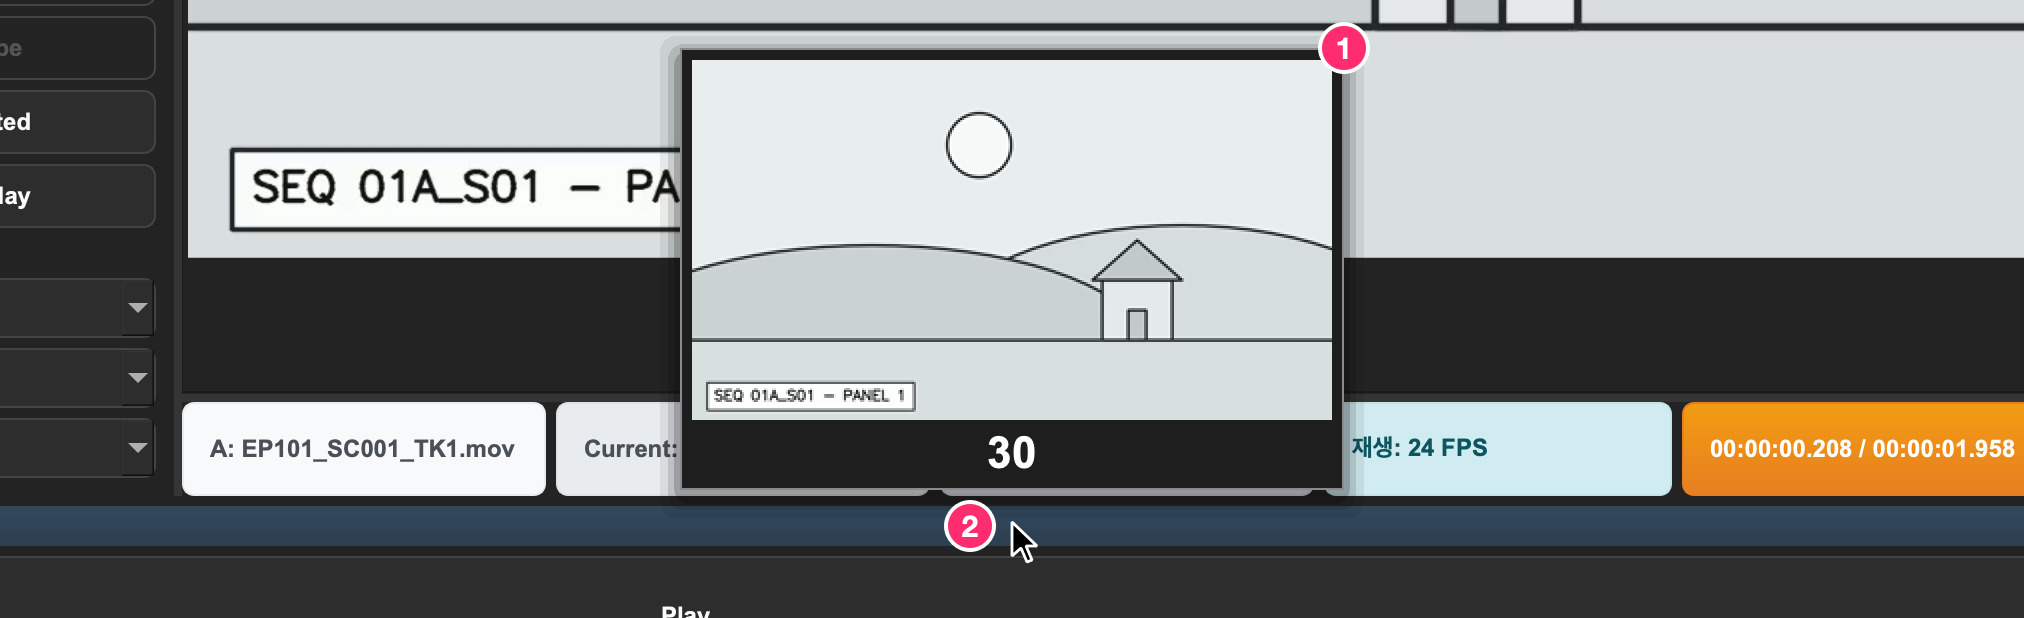
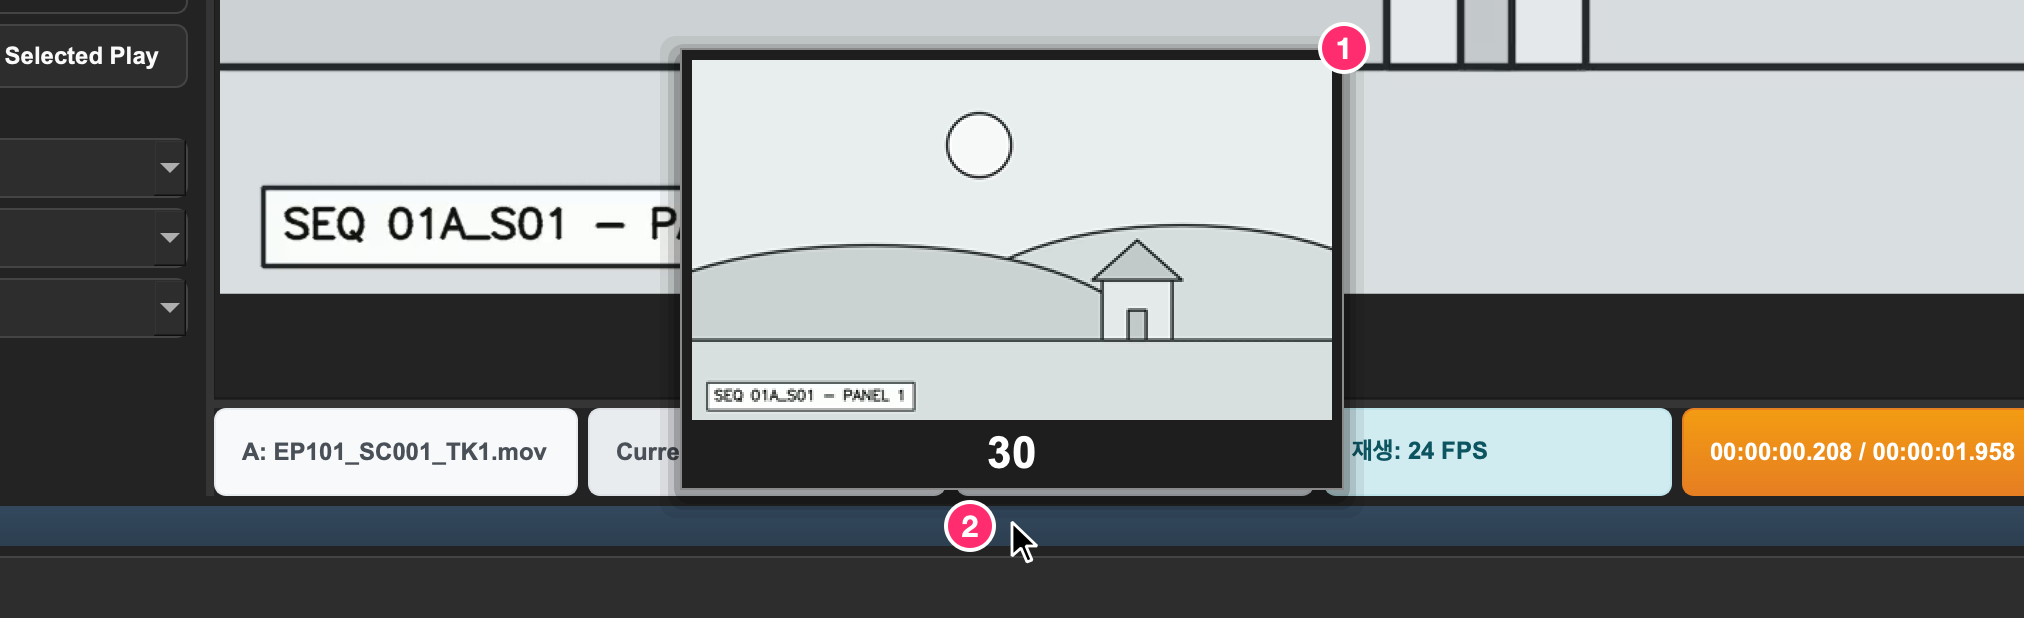
가운데 열: 단추 여섯을 둘씩 한 줄로 — 세로 111px 여유
사용자 요청: 가운데 열의 Open Video A·B, X·Y-Axis Wipe, Play Selected·Selected Play를 반 폭씩 한 줄로
놓아 세로 자리를 만들기 (OCR 관련 상자를 펼치면 아래 항목이 밀려 보기 어려움).
결정: 여섯 단추만, 글자는 그대로 두고 가운데 열을 그만큼 넓힘.

- window_layout.button_pair_row: 단추 둘을 한 줄에 반씩
- window_layout.SteadyTextButton: 글자가 바뀌는 단추의 크기 힌트를 가장 넓은 글자에 고정 —
  선택 재생 단추의 글자(Selected Play ↔ Selected Pause)가 바뀔 때 열·영상 영역의 폭이 흔들리지 않게
- 선택 재생 단추의 처음 글자 'Play/Pause Selected' → 'Selected Play' (긴 글은 반 폭에 안 들어감)
- 가운데 열 폭은 정해 넣지 않음: 스크롤 영역의 최소 폭(내용 + 스크롤바 자리)이 늘어 이 Mac에서 220 → 236px,
  영상 영역 가로 16px 줄어듦. 창의 최소 크기는 613×504로 900×600 아래 그대로
- 실제 스크롤 양(이 Mac, 상자 하나를 펼쳤을 때): 창 높이 900에서 62·99·76·38px → 모두 0,
  800에서 162·199·176·138px → 51·88·65·27px
- 매뉴얼: 화면 그림 17장을 다시 찍음, '그 아래 단추' → '그 옆 단추'
- 시험 tests/test_middle_button_rows.py 10개 (같은 줄·반씩·글자가 다 들어감·폭이 흔들리지 않음)

diff --git a/tests/test_middle_button_rows.py b/tests/test_middle_button_rows.py
@@ -1,0 +1,161 @@
+"""가운데 열의 단추 여섯을 둘씩 한 줄로 (2026-11-13).
+
+사용자 요청: "빨간 사각형 안의 버튼 가로 사이즈만 50%씩 줄여서 한 줄로 만들면 중앙패널에 여유가 생길 거 같아 …
+OCR 관련 버튼 펼치면 나머지 버튼 내부 항목이 보기 어려워서".
+Open Video A | Open Video B · X-Axis Wipe | Y-Axis Wipe · Play Selected | Selected Play — 세 줄이 줄어 가운데 열에
+세로 여유가 생긴다(개발 Mac에서 111px). 사용자 결정: 글자는 그대로 두고, 글자가 잘리지 않도록 가운데 열이 그만큼
+넓어진다(개발 Mac 220 → 236px).
+
+글꼴은 플랫폼마다 달라 픽셀 숫자가 아니라 관계(같은 줄·같은 폭·글자가 다 들어감·폭이 흔들리지 않음)로 확인한다.
+"""
+
+import pytest
+from PyQt5.QtWidgets import QApplication, QPushButton
+
+from yesoncheck.player_timeline import CollapsibleBox
+from tests.test_work_paths_ui import make_config, new_player  # noqa: F401 (new_player: fixture)
+
+PAIRS = [("Open Video A", "Open Video B"), ("X-Axis Wipe", "Y-Axis Wipe"), ("Play Selected", "Selected Play")]
+PAUSE_STYLE = "background-color: yellow;"  # 선택 재생 중 단추의 시트 (player_playback·sidebar_playlist가 넣는 것)
+
+
+def settle():
+    for _ in range(5):
+        QApplication.processEvents()
+
+
+@pytest.fixture
+def player(new_player, dialogs, tmp_path):  # noqa: F811
+    player = new_player(make_config(str(tmp_path), {}))
+    player.resize(1440, 900)
+    player.show()
+    settle()
+    return player
+
+
+def column(player):
+    return player.middleScrollArea.widget()
+
+
+def button(player, text):
+    found = [b for b in column(player).findChildren(QPushButton) if b.text() == text]
+    assert len(found) == 1, f"'{text}' 단추가 {len(found)}개"
+    return found[0]
+
+
+def pairs(player):
+    return [(button(player, left), button(player, right)) for left, right in PAIRS]
+
+
+def left_edge(widget, player):
+    return widget.mapTo(column(player), widget.rect().topLeft())
+
+
+def show_pause_label(player):
+    """선택 재생 중의 모습: 글자 'Selected Pause' + 노란 시트 (앱이 재생을 시작할 때 하는 그대로)."""
+    player.playSelectedPauseButton.setText("Selected Pause")
+    player.playSelectedPauseButton.setStyleSheet(PAUSE_STYLE)
+    settle()
+
+
+def test_pause_button_starts_with_the_short_label(player):
+    """처음 글자도 한 번 쓴 뒤의 글자와 같은 'Selected Play' — 예전 처음 글자 'Play/Pause Selected'는 반 폭에 들어가지 않음."""
+    assert player.playSelectedPauseButton.text() == "Selected Play"
+
+
+def test_each_pair_sits_on_one_row(player):
+    for left, right in pairs(player):
+        a, b = left_edge(left, player), left_edge(right, player)
+        assert a.y() == b.y(), f"{left.text()} · {right.text()}가 다른 줄"
+        assert left.height() == right.height()
+        gap = b.x() - (a.x() + left.width())
+        assert 0 <= gap <= 8, f"{left.text()} · {right.text()} 사이 {gap}px"
+
+
+def test_pair_buttons_share_the_row_equally(player):
+    for left, right in pairs(player):
+        assert abs(left.width() - right.width()) <= 1, f"{left.text()} {left.width()} · {right.text()} {right.width()}"
+
+
+def test_rows_span_the_same_width_as_the_other_controls(player):
+    """둘을 합친 줄은 한 줄짜리 위젯(콤보 상자)과 왼쪽·오른쪽 끝이 같음."""
+    combo = player.frameRateComboBox
+    start = left_edge(combo, player).x()
+    end = start + combo.width()
+    for left, right in pairs(player):
+        assert left_edge(left, player).x() == start
+        assert abs(left_edge(right, player).x() + right.width() - end) <= 1
+
+
+def test_rows_follow_each_other_without_a_gap_row(player):
+    """Open Video 줄 바로 아래가 첫 접는 상자 (B가 차지하던 줄이 없어짐)."""
+    open_a = button(player, "Open Video A")
+    first_box = column(player).findChildren(CollapsibleBox)[0]
+    below = left_edge(first_box, player).y() - (left_edge(open_a, player).y() + open_a.height())
+    assert 0 <= below <= 8
+
+
+def test_every_label_fits(player):
+    for left, right in pairs(player):
+        for b in (left, right):
+            assert b.width() >= b.minimumSizeHint().width(), f"{b.text()}: 폭 {b.width()} < 필요한 {b.minimumSizeHint().width()}"
+    show_pause_label(player)
+    pause = player.playSelectedPauseButton
+    assert pause.width() >= pause.minimumSizeHint().width()
+
+
+def test_every_label_fits_when_the_scrollbar_shows(player):
+    """접는 상자를 펼쳐 세로 스크롤바가 생겨도(가운데 열의 내용 폭이 스크롤바만큼 줄어듦) 글자가 잘리지 않음."""
+    player.resize(1440, 700)
+    settle()
+    annotation_box = column(player).findChildren(CollapsibleBox)[-1]
+    annotation_box.toggle_button.click()
+    settle()
+    assert player.middleScrollArea.verticalScrollBar().isVisible(), "스크롤바가 생기지 않음 (시험 조건이 틀림)"
+    rows = pairs(player)  # 글자를 바꾸기 전에 찾아 둠 (글자로 찾으므로)
+    show_pause_label(player)
+    for left, right in rows:
+        for b in (left, right):
+            assert b.width() >= b.minimumSizeHint().width(), f"{b.text()}: 폭 {b.width()} < 필요한 {b.minimumSizeHint().width()}"
+        assert left_edge(right, player).x() + right.width() <= column(player).width()
+
+
+def test_column_width_does_not_move_when_the_pause_label_changes(player):
+    """재생·멈춤마다 글자가 Selected Play ↔ Selected Pause로 바뀌어도 가운데 열과 단추의 폭이 그대로 (영상 영역이 흔들리지 않음)."""
+    pause = player.playSelectedPauseButton
+    play = button(player, "Play Selected")
+    before = (player.middleScrollArea.width(), pause.width(), play.width(), player.videoWidget.width())
+    show_pause_label(player)
+    during = (player.middleScrollArea.width(), pause.width(), play.width(), player.videoWidget.width())
+    pause.setText("Selected Play")
+    pause.setStyleSheet("")
+    settle()
+    after = (player.middleScrollArea.width(), pause.width(), play.width(), player.videoWidget.width())
+    assert before == during == after
+
+
+def test_pause_button_asks_for_the_same_width_in_both_states(player):
+    """크기 힌트·최소 힌트가 두 글자에서 같고, 넓은 글자('Selected Pause')를 보통 단추에 넣었을 때의 폭과 같음."""
+    pause = player.playSelectedPauseButton
+    idle = (pause.sizeHint().width(), pause.minimumSizeHint().width())
+    plain_idle = QPushButton.sizeHint(pause).width()
+    show_pause_label(player)
+    playing = (pause.sizeHint().width(), pause.minimumSizeHint().width())
+    plain_playing = QPushButton.sizeHint(pause).width()  # 보통 QPushButton이 이 글자에 바라는 폭
+    assert idle == playing == (plain_playing, plain_playing)
+    assert plain_idle < plain_playing  # 짧은 글자만 보면 더 좁았을 것 — 넓은 쪽에 맞춘 것
+
+
+def test_buttons_still_do_their_jobs(player, monkeypatch):
+    """자리만 바뀌고 누르면 하는 일은 그대로."""
+    opened = []
+    monkeypatch.setattr(player, "open_file", lambda side, path=None: opened.append(side))
+    button(player, "Open Video A").click()
+    button(player, "Open Video B").click()
+    assert opened == ["A", "B"]
+    # 선택 재생 단추 둘은 만들 때의 메서드에 바로 이어져 있어 바꿔치기가 닿지 않음 — 이어져 있는지만 봄
+    play = button(player, "Play Selected")
+    pause = player.playSelectedPauseButton
+    assert play.receivers(play.clicked) >= 1
+    assert pause.receivers(pause.clicked) >= 1
+    assert not button(player, "X-Axis Wipe").isEnabled() and not button(player, "Y-Axis Wipe").isEnabled()  # 와이프를 켜기 전에는 꺼진 채

diff --git a/yesoncheck/player_base.py b/yesoncheck/player_base.py
@@ -73,7 +73,9 @@ from yesoncheck.player_ocr import PlayerOcrMixin
 from yesoncheck.player_overlay import PlayerOverlayMixin
 from yesoncheck.slider_style import jump_to_click
 from yesoncheck.update_banner import UpdateBanner
-from yesoncheck.window_layout import ElidedLabel, InfoRowLayout, VerticalScrollArea, startup_geometry
+from yesoncheck.window_layout import (
+    ElidedLabel, InfoRowLayout, SteadyTextButton, VerticalScrollArea, button_pair_row, startup_geometry,
+)
 # 놓아 준 워커를 붙잡아 두는 코드는 worker_lifecycle에 있고, 기존 경로(`from yesoncheck.player_base import EXIT_WAIT_S, release_worker,
 # wait_for_released_workers`)를 위해 여기서 다시 내보냄. _RELEASED_WORKERS는 읽는 쪽(시험)용 같은 dict 객체 — 바꿔치기하려면
 # worker_lifecycle에서 할 것 (이 모듈의 이름을 바꿔도 release_worker는 worker_lifecycle의 것을 씀)
@@ -582,7 +584,10 @@ class VideoPlayerBase(PlayerHoverThumbsMixin, PlayerOcrMixin, PlayerOverlayMixin
         self.playSelectedButton = QPushButton('Play Selected')
         self.playSelectedButton.clicked.connect(self.play_selected_files)
         self.playSelectedButton.setSizePolicy(QSizePolicy.Expanding, QSizePolicy.Fixed)
-        self.playSelectedPauseButton = QPushButton('Play/Pause Selected')
+        # 글자는 재생·멈춤마다 바뀜(player_playback·sidebar_playlist가 'Selected Play'/'Selected Pause'로) — 옆의 Play Selected와 한 줄을
+        # 나눠 쓰므로 크기 힌트는 둘 중 넓은 글자로 고정(SteadyTextButton). 처음 글자도 한 번 쓴 뒤와 같은 'Selected Play'
+        # (예전 처음 글자 'Play/Pause Selected'는 반 폭에 들어가지 않음)
+        self.playSelectedPauseButton = SteadyTextButton('Selected Play', ('Selected Play', 'Selected Pause'))
         self.playSelectedPauseButton.clicked.connect(self.toggle_play_pause_selected)
         self.playSelectedPauseButton.setSizePolicy(QSizePolicy.Expanding, QSizePolicy.Fixed)
         
@@ -647,7 +652,10 @@ class VideoPlayerBase(PlayerHoverThumbsMixin, PlayerOcrMixin, PlayerOverlayMixin
         
         controlLayoutMiddle = QVBoxLayout()
         # 테마전환, Previous Frame, Next Frame 버튼은 UI에서 제거 (기능은 유지)
-        controlLayoutMiddle.addWidget(openButtonA); controlLayoutMiddle.addWidget(openButtonB)
+        # 단추 여섯은 둘씩 한 줄에(2026-11-13 — 세 줄이 줄어 접는 상자를 펼쳐도 아래 항목이 덜 밀림). 글자가 잘리지 않게
+        # 가운데 열의 최소 폭이 그만큼 늘어남: 스크롤 영역의 최소 폭 = 내용의 최소 폭 + 스크롤바 (VerticalScrollArea)
+        MIDDLE_SPACING = 5
+        controlLayoutMiddle.addLayout(button_pair_row(openButtonA, openButtonB, MIDDLE_SPACING))
         
         # OCR 그룹박스 추가 (기본 접힌 상태)
         controlLayoutMiddle.addWidget(roi_group)
@@ -660,13 +668,13 @@ class VideoPlayerBase(PlayerHoverThumbsMixin, PlayerOcrMixin, PlayerOverlayMixin
         controlLayoutMiddle.addWidget(self.loopCheckBox)
         controlLayoutMiddle.addWidget(volumeLabel); controlLayoutMiddle.addWidget(self.volumeSlider); controlLayoutMiddle.addWidget(self.volumePercentLabel)
         controlLayoutMiddle.addWidget(self.frameRateLabel); controlLayoutMiddle.addWidget(self.frameRateComboBox)
-        controlLayoutMiddle.addWidget(self.wipeCheckBox); controlLayoutMiddle.addWidget(self.wipeXButton)
-        controlLayoutMiddle.addWidget(self.wipeYButton); controlLayoutMiddle.addWidget(self.playSelectedButton)
-        controlLayoutMiddle.addWidget(self.playSelectedPauseButton)
+        controlLayoutMiddle.addWidget(self.wipeCheckBox)
+        controlLayoutMiddle.addLayout(button_pair_row(self.wipeXButton, self.wipeYButton, MIDDLE_SPACING))
+        controlLayoutMiddle.addLayout(button_pair_row(self.playSelectedButton, self.playSelectedPauseButton, MIDDLE_SPACING))
         controlLayoutMiddle.addWidget(workLabel); controlLayoutMiddle.addWidget(self.workComboBox)
         controlLayoutMiddle.addWidget(self.seasonComboBox); controlLayoutMiddle.addWidget(self.jobComboBox)
         controlLayoutMiddle.setContentsMargins(0,0,0,0)
-        controlLayoutMiddle.setSpacing(5)
+        controlLayoutMiddle.setSpacing(MIDDLE_SPACING)
         
         controlLayoutRight = QVBoxLayout()
         controlLayoutRight.addWidget(self.positionScroll)

diff --git a/yesoncheck/window_layout.py b/yesoncheck/window_layout.py
@@ -8,13 +8,14 @@
 - InfoRowLayout: 정보 줄 배치. 자리가 있으면 예전 QHBoxLayout + 빈칸과 같은 배치, 모자라면 정해진 순서로 줄임.
 - VerticalScrollArea: 세로로만 스크롤 — 안의 내용이 길어도 창의 최소 높이를 묶지 않음.
 - startup_geometry: 처음 창 크기·위치 (예전처럼 1080×720 이상, 레이아웃이 원하는 크기까지, 화면 작업 영역 안으로).
+- SteadyTextButton·button_pair_row: 가운데 열의 단추를 둘씩 한 줄에 (2026-11-13) — 글자가 바뀌는 단추가 줄의 폭을 흔들지 않게.
 """
 
 import math
 
 from PyQt5.QtCore import QEvent, QMargins, QPoint, QRect, QSize, Qt
 from PyQt5.QtGui import QFontMetricsF, QPainter
-from PyQt5.QtWidgets import QFrame, QLabel, QLayout, QScrollArea, QStyle, QStyleOption, QToolTip
+from PyQt5.QtWidgets import QFrame, QHBoxLayout, QLabel, QLayout, QPushButton, QScrollArea, QStyle, QStyleOption, QToolTip
 
 # 예전 처음 창: setGeometry(100, 100, 1080, 720)
 DEFAULT_WINDOW_SIZE = QSize(1080, 720)
@@ -377,6 +378,37 @@ class VerticalScrollArea(QScrollArea):
         # 스크롤바 너비·테두리가 바뀜 (만드는 중 setWidget 전에도 오므로 내용이 생긴 뒤부터)
         if event.type() in _METRICS_EVENTS and self.widget() is not None:
             self.update_size_hints()
+
+
+class SteadyTextButton(QPushButton):
+    """글자가 몇 가지로 바뀌는 단추 — 크기 힌트를 그 글자들(texts) 중 가장 넓은 것으로 잡음.
+
+    옆 단추와 한 줄을 나눠 쓰는 단추의 글자가 바뀔 때마다(Selected Play ↔ Selected Pause) 줄의 최소 폭이 달라지면
+    가운데 열과 영상 영역의 폭이 재생·멈춤마다 흔들림. 글자 밖의 몫(여백·테두리)은 글자와 무관하므로 지금 글자의
+    힌트에 '가장 넓은 글자 − 지금 글자'의 폭만 더함 — 글꼴·스타일시트가 바뀌어도 그때의 값으로 맞음.
+    """
+
+    def __init__(self, text, texts, parent=None):
+        super().__init__(text, parent)
+        self._texts = tuple(texts)
+
+    def sizeHint(self):
+        # 최소 힌트는 따로 고치지 않음: QPushButton.minimumSizeHint()가 이 sizeHint()를 그대로 돌려줌 (둘 다 고치면 두 번 더해짐)
+        hint = super().sizeHint()
+        metrics = self.fontMetrics()
+        current = metrics.size(Qt.TextShowMnemonic, self.text()).width()
+        widest = max([current] + [metrics.size(Qt.TextShowMnemonic, text).width() for text in self._texts])
+        return QSize(hint.width() + widest - current, hint.height())
+
+
+def button_pair_row(left, right, spacing):
+    """단추 둘을 한 줄에 반씩 (가운데 열 — 세로 자리를 아낌). 자리가 모자라면 각자 글자가 들어가는 폭까지만 줄어듦."""
+    row = QHBoxLayout()
+    row.setContentsMargins(0, 0, 0, 0)
+    row.setSpacing(spacing)
+    row.addWidget(left, 1)
+    row.addWidget(right, 1)
+    return row
 
 
 def _take_equally(widths, floors, indices, excess):

diff --git a/yesoncheck/sidebar_sequences.py b/yesoncheck/sidebar_sequences.py
@@ -14,7 +14,7 @@
   Mov 목록은 열지 않음. 한 장뿐인 프레임은 예전처럼 무시. 영상 파일이 함께 있으면 영상은 예전 그대로이고 시퀀스는 목록에만 더함. 창 본문 핸들러는 영상 영역 핸들러와
   같은 코드이고, `self`가 `open_file`을 가진 창이면 self를 대상으로 씀 (예전에는 `parent()`만 따라 올라가 최상위 창에서 본문이 돌지 않았음).
 - 탭 전환(`_on_sidebar_tab_changed`)은 페이지 교체뿐 — GUI 스레드는 디스크를 읽지 않음 (썸네일 모드면 Seq 썸네일을 뒤 스레드로 다시
-  읽을 뿐). Seq 탭에서는 선택 재생 단추 둘('Play Selected'·'Play/Pause Selected')을 끔 (선택 재생은 Mov 경로 전제 — 이미 도는 선택 재생의
+  읽을 뿐). Seq 탭에서는 선택 재생 단추 둘('Play Selected'·'Selected Play')을 끔 (선택 재생은 Mov 경로 전제 — 이미 도는 선택 재생의
   일시정지 단추는 예외, `_sync_selected_play_buttons`).
 - 썸네일: Seq 목록은 전역 표시 모드(List/Thumb 단추 — `_apply_seq_display_mode`)를 따르고, 썸네일 모드에서 읽기 전용 경량 경로
   (`_load_seq_thumbnails` — SeqThumbnailLoaderWorker가 뒤 스레드에서 디스크의 썸네일을 읽어 아이콘만 붙임)로 보여 줌. 시퀀스의 썸네일은
@@ -461,7 +461,7 @@ class SidebarSequencesMixin:
                 self._load_seq_thumbnails()
 
     def _sync_selected_play_buttons(self):
-        """선택 재생 단추를 보이는 탭에 맞춤. Seq 탭에서는 'Play Selected'뿐 아니라 짝 단추 'Play/Pause Selected'(멈춰 있을 때 라벨
+        """선택 재생 단추를 보이는 탭에 맞춤. Seq 탭에서는 'Play Selected'뿐 아니라 짝 단추 'Selected Play'(멈춰 있을 때 라벨
         'Selected Play')도 끔 — 누르면 보이지 않는 Mov 목록의 선택(폴더를 불러올 때 selectAll)으로 선택 재생이 시작되어 열어 둔 시퀀스를
         닫기 때문. 다만 선택 재생이 이미 돌고 있으면 짝 단추는 그 재생의 일시정지 단추('Selected Pause')라 켜 둠 (Mov 탭에서 시작한 선택
         재생을 보다가 Seq 탭으로 옮겨도 멈출 수 있게). 탭 전환과, 선택 재생이 끝나는 길(stop_video·_end_playlist_mode)이 부름."""

diff --git a/yesoncheck/manual_content.py b/yesoncheck/manual_content.py
@@ -185,7 +185,7 @@ PAGES = (
              ("steps", (
                  "목록에서 영상을 여러 개 고릅니다 — Ctrl+클릭(Mac은 ⌘+클릭)으로 하나씩, Shift+클릭으로 사이의 것까지.",
                  "**Play Selected**를 누르거나 목록에서 {Enter}를 누릅니다.",
-                 "잠깐 멈추거나 이어 재생하려면 그 아래 단추나 {\\}를 누릅니다 — 단추 글자는 재생 중이면 **Selected Pause**, "
+                 "잠깐 멈추거나 이어 재생하려면 그 옆 단추나 {\\}를 누릅니다 — 단추 글자는 재생 중이면 **Selected Pause**, "
                  "멈추면 **Selected Play**입니다.",
              )),
              ("list", (
